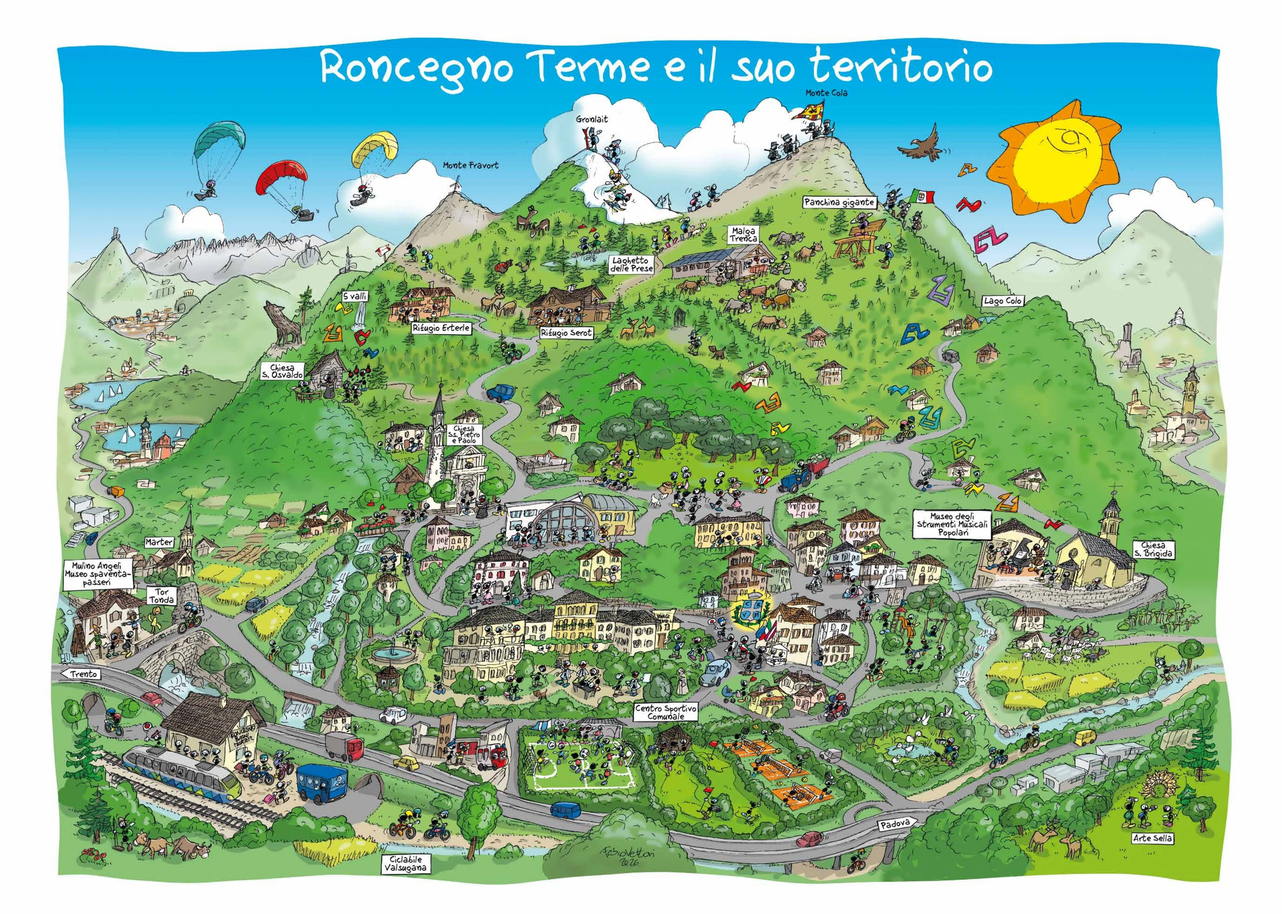
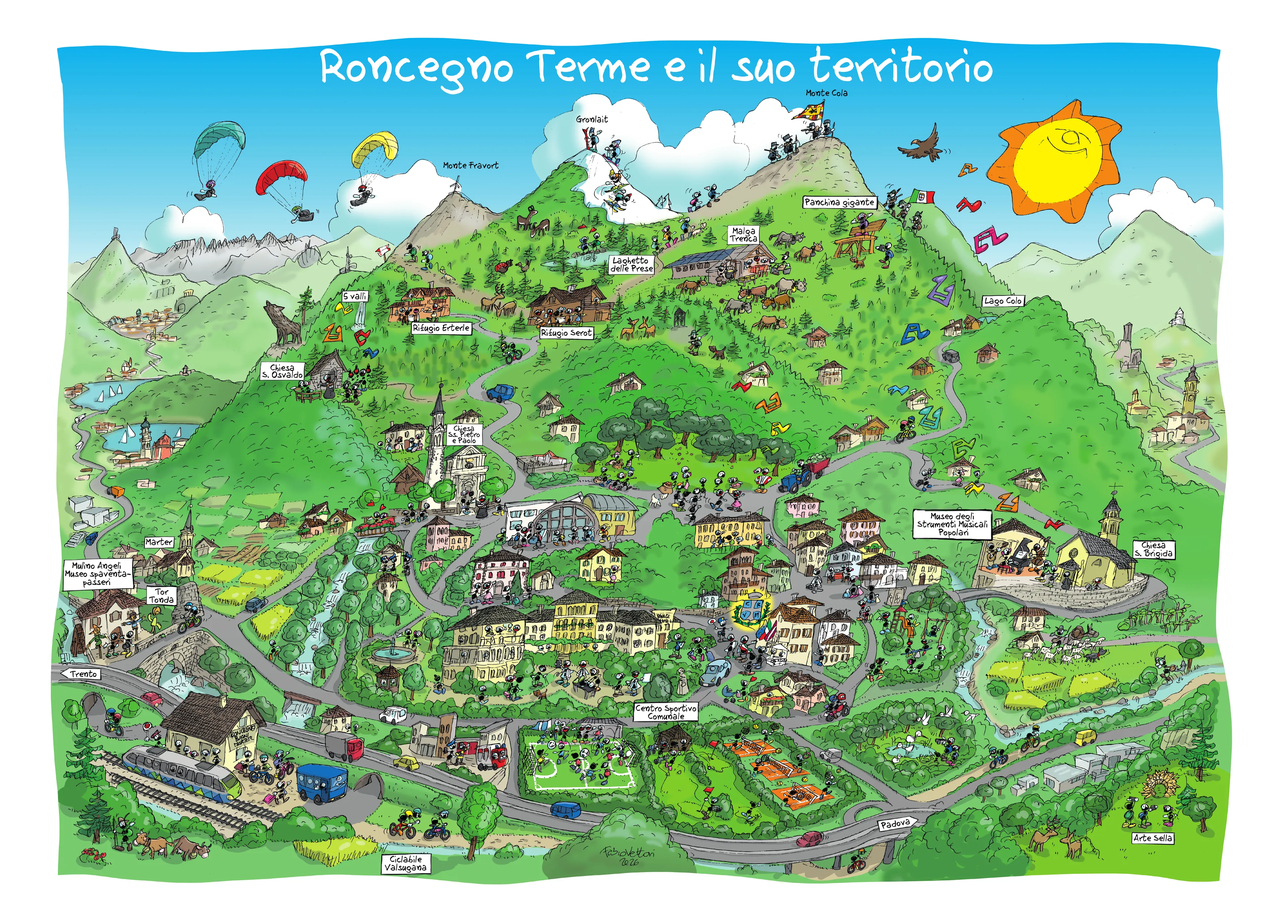
Cartina: immagini dal PDF di stampa e testi ufficiali dei luoghi
- Immagini rifatte dal PDF di stampa (9019 px), allineato alla versione
  precedente con correlazione 0,98, così i punti restano al loro posto:
  cartina base più nitida e più leggera (1,5 MB), nuova versione HD da
  6000 px scaricata solo quando si ingrandisce, immagine della homepage
  e formica in parapendio più definite.
- Descrizioni dei luoghi prese dal retro della cartina ufficiale, usate
  quando Directus non ha un testo breve; altitudini di Fravort, Gronlait,
  Cola e Rifugio Serot nella scheda.
- Nomi allineati alla guida: Lago delle Prese, Monte Gronlait,
  Panchina gigante della Trenca.
- Nuovo punto: Parco delle Terme.

Claude-Session: https://claude.ai/code/session_01P4k1MHH8z8At2jw25GeK2V

Changed region(s): [[0.031, 0.0312, 0.9604, 0.9688]]

diff --git a/src/lib/cartina-points.ts b/src/lib/cartina-points.ts
@@ -2,6 +2,7 @@
 // x e y sono percentuali sull'immagine /images/cartina/cartina-roncegno-1.webp
 // e cadono accanto alle scritte già disegnate sull'illustrazione.
 // L'ordine è quello del giro guidato.
+// I testi `note` vengono dal retro della cartina stampata (edizione 2026).
 // `match` serve a trovare la scheda corrispondente tra luoghi e percorsi di Directus.
 
 export type CartinaGroup = "paese" | "montagna" | "dintorni";
@@ -14,7 +15,10 @@ export type CartinaPoint = {
   y: number;
   match?: string[];
   href?: string;
+  /** Testo della guida ufficiale (retro della cartina), usato se Directus non ha una descrizione. */
   note?: string;
+  /** Altitudine o dettaglio breve mostrato accanto al gruppo. */
+  meta?: string;
 };
 
 export const CARTINA_GROUPS: Record<CartinaGroup, string> = {
@@ -24,26 +28,27 @@ export const CARTINA_GROUPS: Record<CartinaGroup, string> = {
 };
 
 export const CARTINA_POINTS: CartinaPoint[] = [
-  { id: "mulino-angeli", title: "Mulino Angeli", group: "paese", x: 8.3, y: 65.4, href: "/musei/mulino-angeli", note: "Mulino documentato dal 1909 e Casa Museo degli Spaventapasseri." },
+  { id: "mulino-angeli", title: "Mulino Angeli", group: "paese", x: 8.3, y: 65.4, href: "/musei/mulino-angeli", note: "Ospitato nel Mulino Angeli, un percorso unico che celebra lo spaventapasseri tra arte, creatività e memoria della tradizione contadina." },
   { id: "tor-tonda", title: "Tor Tonda", group: "paese", x: 14.5, y: 67.0, match: ["tor tonda", "torre tonda"] },
   { id: "marter", title: "Marter", group: "paese", x: 14.5, y: 57.4, match: ["marter"] },
   { id: "stazione", title: "Stazione di Roncegno Bagni-Marter", group: "paese", x: 16.5, y: 80.5, match: ["stazione"] },
   { id: "ciclabile", title: "Ciclabile della Valsugana", group: "dintorni", x: 32.5, y: 86.8, match: ["ciclabile"] },
   { id: "chiesa-santi-pietro-paolo", title: "Chiesa dei Santi Pietro e Paolo", group: "paese", x: 34.5, y: 45.0, match: ["pietro e paolo", "chiesa parrocchiale", "arcipretale"] },
+  { id: "parco-terme", title: "Parco delle Terme", group: "paese", x: 30.0, y: 70.0, match: ["parco delle terme"], note: "Oasi secolare nel cuore del paese, ideale per passeggiate rilassanti e percorsi legati al benessere termale." },
   { id: "centro", title: "Il centro e il municipio", group: "paese", x: 58.8, y: 67.2, match: ["municipio", "centro storico", "piazza montebello"], href: "/luoghi" },
   { id: "centro-sportivo", title: "Centro sportivo comunale", group: "paese", x: 44.0, y: 82.6, match: ["centro sportivo", "campo sportivo"] },
-  { id: "museo-musica", title: "Museo degli Strumenti Musicali Popolari", group: "paese", x: 79.5, y: 60.2, href: "/musei/museo-della-musica", note: "Circa mille strumenti popolari da cinque continenti." },
+  { id: "museo-musica", title: "Museo degli Strumenti Musicali Popolari", group: "paese", x: 79.5, y: 60.2, href: "/musei/museo-della-musica", note: "Suggestiva collezione nei pressi dell’antica chiesetta, con affascinanti strumenti musicali della tradizione popolare da tutto il mondo." },
   { id: "chiesa-santa-brigida", title: "Chiesa di Santa Brigida", group: "paese", x: 85.8, y: 61.6, match: ["santa brigida", "s. brigida"] },
   { id: "arte-sella", title: "Arte Sella", group: "dintorni", x: 90.5, y: 84.7, match: ["arte sella"] },
-  { id: "chiesa-sant-osvaldo", title: "Chiesa di Sant’Osvaldo", group: "montagna", x: 25.0, y: 40.2, match: ["osvaldo"] },
-  { id: "cinque-valli", title: "Cinque Valli", group: "montagna", x: 27.3, y: 35.0, match: ["cinque valli", "5 valli"] },
-  { id: "rifugio-erterle", title: "Rifugio Erterle", group: "montagna", x: 33.5, y: 32.9, match: ["erterle"] },
-  { id: "rifugio-serot", title: "Rifugio Serot", group: "montagna", x: 44.5, y: 32.5, match: ["serot"] },
-  { id: "laghetto-prese", title: "Laghetto delle Prese", group: "montagna", x: 43.5, y: 29.0, match: ["prese"] },
-  { id: "monte-fravort", title: "Monte Fravort", group: "montagna", x: 35.5, y: 21.0, match: ["fravort"] },
-  { id: "gronlait", title: "Gronlait", group: "montagna", x: 48.0, y: 16.8, match: ["gronlait"] },
-  { id: "malga-trenca", title: "Malga Trenca", group: "montagna", x: 56.5, y: 28.0, match: ["trenca"] },
-  { id: "monte-cola", title: "Monte Cola", group: "montagna", x: 62.8, y: 14.3, match: ["monte cola"] },
-  { id: "panchina-gigante", title: "Panchina gigante", group: "montagna", x: 67.0, y: 26.6, match: ["panchina"] },
+  { id: "chiesa-sant-osvaldo", title: "Chiesa di Sant’Osvaldo", group: "montagna", x: 25.0, y: 40.2, match: ["osvaldo"], note: "Anima storica e spirituale del paese, merita una visita per l’architettura e la posizione dominante sulla valle." },
+  { id: "cinque-valli", title: "Cinque Valli", group: "montagna", x: 27.3, y: 35.0, match: ["cinque valli", "5 valli"], note: "Suggestivo salto d’acqua in una gola selvaggia, raggiungibile nel bosco costeggiando antiche aree minerarie." },
+  { id: "rifugio-erterle", title: "Rifugio Erterle", group: "montagna", x: 33.5, y: 32.9, match: ["erterle"], note: "Situato in una splendida radura in località Cinque Valli, è ideale per famiglie e amanti della cucina tipica trentina." },
+  { id: "rifugio-serot", title: "Rifugio Serot", group: "montagna", x: 44.5, y: 32.5, match: ["serot"], note: "Terrazza panoramica a 1.566 metri con ottima cucina locale, base perfetta per le alte vette del Lagorai.", meta: "1.566 m" },
+  { id: "laghetto-prese", title: "Lago delle Prese", group: "montagna", x: 43.5, y: 29.0, match: ["prese"], note: "“Lo smeraldo del Lagorai”, un incantevole specchio d’acqua alpino ideale per picnic, relax e foliage autunnale." },
+  { id: "monte-fravort", title: "Monte Fravort", group: "montagna", x: 35.5, y: 21.0, match: ["fravort"], note: "Escursione panoramica di medio-alta difficoltà con vista idilliaca sulla Valsugana e sulle Dolomiti di Brenta.", meta: "2.347 m" },
+  { id: "gronlait", title: "Monte Gronlait", group: "montagna", x: 48.0, y: 16.8, match: ["gronlait"], note: "Trekking selvaggio lungo creste d’alta quota, per escursionisti esperti (spesso concatenato al Fravort).", meta: "2.383 m" },
+  { id: "malga-trenca", title: "Malga Trenca", group: "montagna", x: 56.5, y: 28.0, match: ["trenca"], note: "Il cuore dell’alpeggio estivo, dove acquistare e gustare prodotti caseari genuini fatti al momento." },
+  { id: "monte-cola", title: "Monte Cola", group: "montagna", x: 62.8, y: 14.3, match: ["monte cola"], note: "Camminata classica e appagante nel cuore del Lagorai, tra ampi prati e panorami a 360 gradi.", meta: "2.222 m" },
+  { id: "panchina-gigante", title: "Panchina gigante della Trenca", group: "montagna", x: 67.0, y: 26.6, match: ["panchina"], note: "Sosta d’obbligo super panoramica vicino a Malga Trenca per foto divertenti e una vista dall’alto sulla Valsugana." },
   { id: "lago-colo", title: "Lago Colo", group: "montagna", x: 76.0, y: 32.9, match: ["lago colo"] },
 ];

diff --git a/src/components/IllustratedMapViewer.tsx b/src/components/IllustratedMapViewer.tsx
@@ -14,10 +14,13 @@ export type IllustratedMapPoint = {
   href: string | null;
   text: string | null;
   image: string | null;
+  meta?: string | null;
 };
 
 type Props = {
   src: string;
+  /** Versione ad alta risoluzione, scaricata solo quando si ingrandisce. */
+  hdSrc?: string;
   alt: string;
   /** Larghezza / altezza dell'illustrazione. */
   aspect: number;
@@ -32,7 +35,7 @@ const MAX_SCALE = 4;
 
 const clamp = (value: number, min: number, max: number) => Math.min(max, Math.max(min, value));
 
-export default function IllustratedMapViewer({ src, alt, aspect, points, groups, initialPointId }: Props) {
+export default function IllustratedMapViewer({ src, hdSrc, alt, aspect, points, groups, initialPointId }: Props) {
   const shellRef = useRef<HTMLDivElement>(null);
   const frameRef = useRef<HTMLDivElement>(null);
   const dragRef = useRef<{ x: number; y: number; left: number; top: number; moved: boolean } | null>(null);
@@ -49,6 +52,8 @@ export default function IllustratedMapViewer({ src, alt, aspect, points, groups,
   const [selectedId, setSelectedId] = useState<string | null>(null);
   const [touring, setTouring] = useState(false);
   const [expanded, setExpanded] = useState(false);
+  const [hdLoaded, setHdLoaded] = useState(false);
+  const hdRequestedRef = useRef(false);
 
   const selectedIndex = points.findIndex((point) => point.id === selectedId);
   const selected = selectedIndex >= 0 ? points[selectedIndex] : null;
@@ -126,6 +131,17 @@ export default function IllustratedMapViewer({ src, alt, aspect, points, groups,
       window.clearTimeout(timeoutId);
     };
   }, [baseScale, centerOn, expanded]);
+
+  // Oltre un certo ingrandimento la versione normale si sgrana: si scarica l'HD e si scambia
+  // l'immagine solo quando è pronta, senza vuoti.
+  const zoomedIn = scale / baseScale > 1.4 || (expanded && scale > 1.2);
+  useEffect(() => {
+    if (!hdSrc || !zoomedIn || hdRequestedRef.current) return;
+    hdRequestedRef.current = true;
+    const image = new Image();
+    image.onload = () => setHdLoaded(true);
+    image.src = hdSrc;
+  }, [hdSrc, zoomedIn]);
 
   // Zoom con due dita (iOS non supporta il pinch dentro un riquadro scorrevole senza aiuto).
   useEffect(() => {
@@ -264,7 +280,7 @@ export default function IllustratedMapViewer({ src, alt, aspect, points, groups,
           >
             {/* Immagine nativa: lo zoom cambia la larghezza del contenitore senza i vincoli di next/image. */}
             {/* eslint-disable-next-line @next/next/no-img-element */}
-            <img src={src} alt={alt} draggable={false} />
+            <img src={hdLoaded && hdSrc ? hdSrc : src} alt={alt} draggable={false} />
             {touring && (
               <svg className={styles.tourPath} viewBox="0 0 100 100" preserveAspectRatio="none" aria-hidden="true">
                 <polyline points={points.map((point) => `${point.x},${point.y}`).join(" ")} />
@@ -314,7 +330,7 @@ export default function IllustratedMapViewer({ src, alt, aspect, points, groups,
               <small>
                 {touring
                   ? `Tappa ${selectedIndex + 1} di ${points.length}`
-                  : groups.find((group) => group.id === selected.group)?.label}
+                  : [groups.find((group) => group.id === selected.group)?.label, selected.meta].filter(Boolean).join(" · ")}
               </small>
               <h3>{selected.title}</h3>
               {selected.text && <p>{selected.text}</p>}

diff --git a/app/cartina/page.tsx b/app/cartina/page.tsx
@@ -42,6 +42,7 @@ function resolvePoints(places: EditorialItem[], routes: EditorialItem[]): Illust
       href,
       text: item?.summary ?? point.note ?? null,
       image: getDirectusImageUrl(item?.image, 800),
+      meta: point.meta ?? null,
     };
   });
 }
@@ -79,6 +80,7 @@ export default async function CartinaPage({ searchParams }: PageProps<"/cartina"
       <section className={styles.mapSection} aria-label="Cartina illustrata">
         <IllustratedMapViewer
           src="/images/cartina/cartina-roncegno-1.webp"
+          hdSrc="/images/cartina/cartina-roncegno-hd.webp"
           alt="Cartina illustrata di Roncegno Terme e del suo territorio, disegnata da Fabio Vettori"
           aspect={3583 / 2560}
           points={points}
